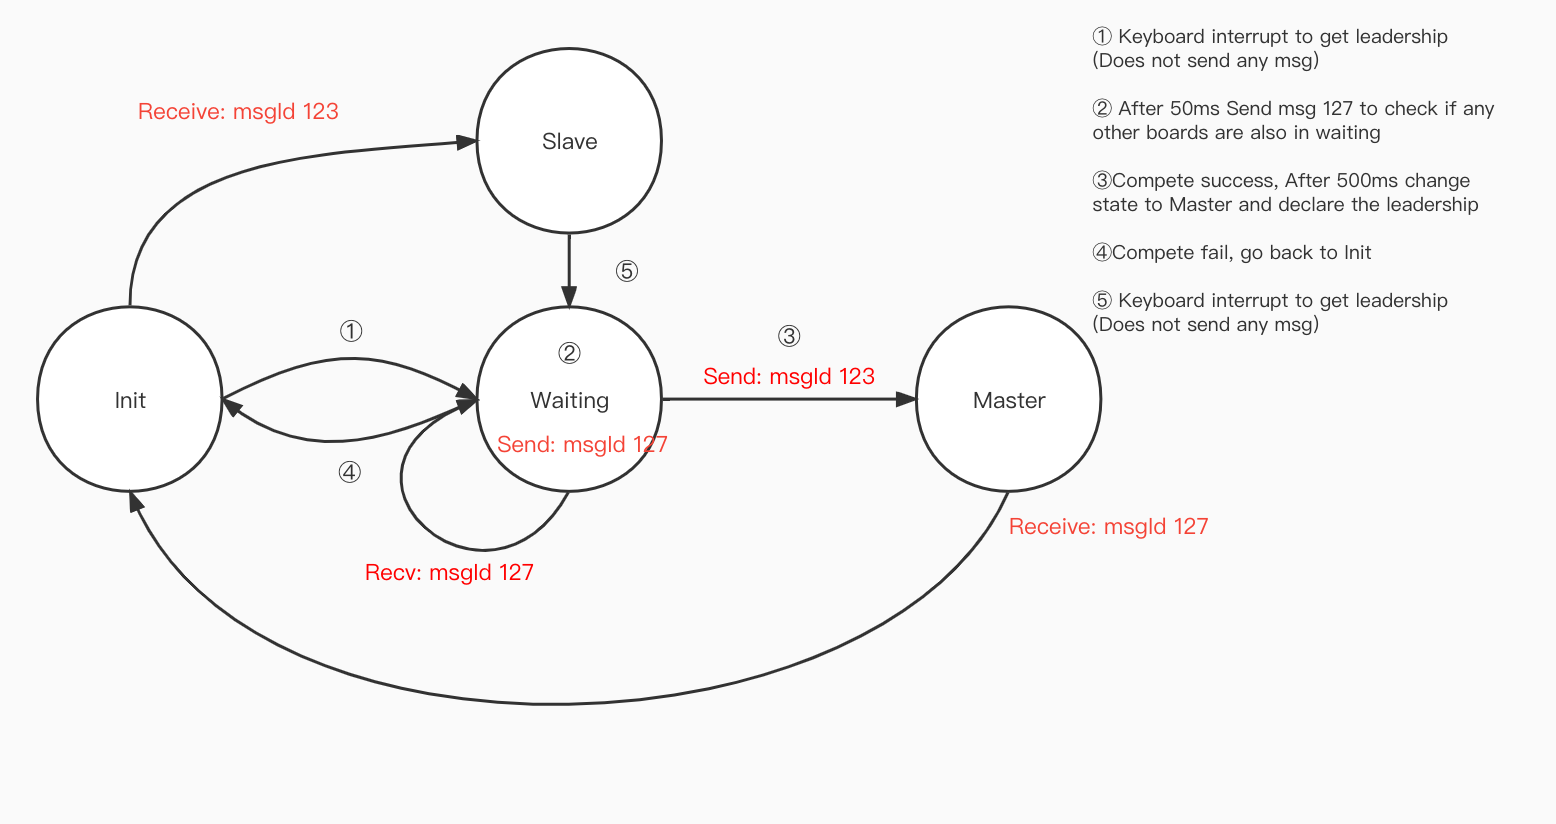
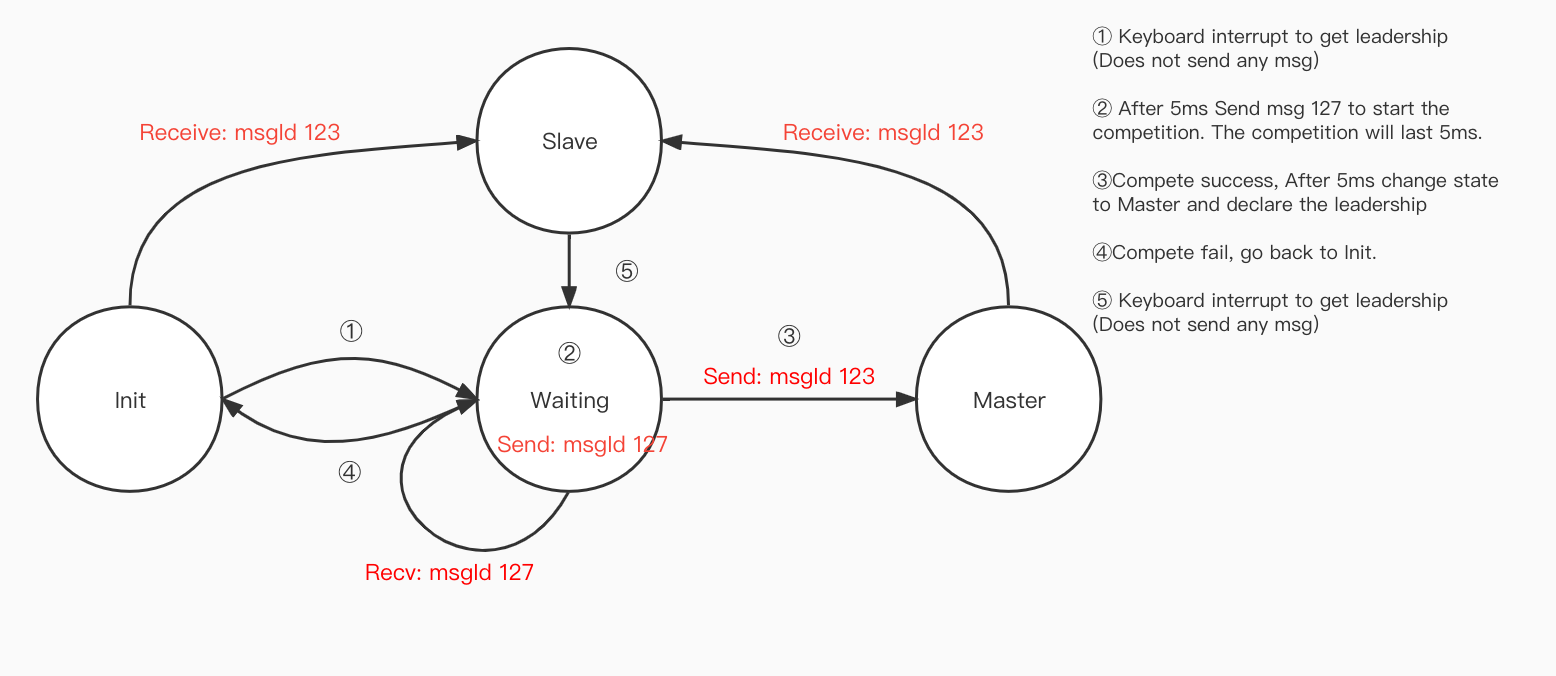
Update
1. Change README.
2. Change to original compete.

diff --git a/RTS-Lab-original/Committee.c b/RTS-Lab-original/Committee.c
@@ -222,7 +222,7 @@ void send_GetLeadership_msg(Committee *self, int arg)
     msg.nodeId = self->myRank;
     msg.msgId = 127;
     CAN_SEND(&can0, &msg);
-    self->mode = WAITING;
+    
 }
 
 // NOT USED ANYMORE
@@ -263,14 +263,15 @@ void change_StateAfterCompete(Committee *self, int arg)
 {
     if (self->isLeader)
     {
-        self->mode = MASTER;
-        self->leaderRank = self->myRank;
-        // ASYNC(&watchdog, monitor, self->myRank);
-        ASYNC(self, send_DeclareLeader_msg, 0); // msgId 123
-        if (self->leaderRank == self->myRank && self->mode == MASTER)
-        {
-            SCI_WRITE(&sci0, "Claimed Leadership!\n");
-        }
+        // self->mode = MASTER;
+        // self->leaderRank = self->myRank;
+        // // ASYNC(&watchdog, monitor, self->myRank);
+        // ASYNC(self, send_DeclareLeader_msg, 0); // msgId 123
+        // if (self->leaderRank == self->myRank && self->mode == MASTER)
+        // {
+        //     SCI_WRITE(&sci0, "Claimed Leadership!\n");
+        // }
+        ASYNC(self, IorS_to_M, 0);
     }
     else
     {

diff --git a/RTS-Lab-original/Watchdog.c b/RTS-Lab-original/Watchdog.c
@@ -169,9 +169,7 @@ void check(Watchdog *self, int unused)
         if(boardNum == 1 && myMode == SLAVE){
             // ASYNC(&committee, D_to_F3, 0);
         }else if(myMode != F_1 && myMode != F_2 && myMode != F_3){
-            snprintf(strbuff, 100, "board mode: %d\n", myMode);
-            SCI_WRITE(&sci0, strbuff);
-            ASYNC(&committee, IorS_to_M, 0);
+            ASYNC(&committee, compete, 0);
         }
         // Is it possible get a FFF here?
     }

diff --git a/RTS-Lab-original/application.c b/RTS-Lab-original/application.c
@@ -790,8 +790,8 @@ void reader(App *self, int c)
 	switch (c)
 	{
 	case 'o':
-		// ASYNC(&committee, compete, 0);
-		ASYNC(&committee, IorS_to_M, 0);
+		ASYNC(&committee, compete, 0);
+		// ASYNC(&committee, IorS_to_M, 0);
 		// ASYNC(self, send_DeclareLeader_msg, 0);
 		break;
 	case 'k':

diff --git a/README.md b/README.md
@@ -5,23 +5,23 @@ This music player is based on the implementation of the EDA223 project, the main
 
 ## The protocol
 
-| msgId | msg.nodeId | msg.buff            | Usage                                | State           | Class   |
-| ----- | ---------- | ------------------- | ------------------------------------ | --------------- | ------- |
-| 1     | myRank     | NaN                 | Increase the volum                   | Master          | Melody  |
-| 2     | myRank     | NaN                 | Decrease the volum                   | Master          | Melody  |
-| 3     | myRank     | NaN                 | Mute the melody                      | Master          | Melody  |
-| 4     | myRank     | NaN                 | Pause the melody                     | Master          | Melody  |
-| 5     | myRank     | New value, size = 1 | Change the positive key              | Master          | Melody  |
-| 6     | myRank     | New value, size = 1 | Change the negative key              | Master          | Melody  |
-| 7     | myRank     | New value, size = 3 | Change the bpm                       | Master          | Melody  |
-| 8     | myRank     | NaN                 | Reset the key and tempo              | Master          | Melody  |
-| 119   | myRank     | Note ID             | Boardcast current note               | Master          | Network |
-| 122   | myRank     | NaN                 | Detect member in the network         | Init            | Network |
-| 123   | myRank     | NaN                 | Declare Leadership                   | Waiting->Master | Network |
-| 124   | myRank     | Rank from msgId 127 | Response to leader claim             | Init            | Network |
-| 125   | myRank     | NaN                 | Reset the bpm and key                | Master          | Network |
-| 126   | myRank     | boardNum            | Send board number in current network | Init            | Network |
-| 127   | myRank     | NaN                 | Claim for leadership                 | Init->Waiting   | Network |
+| msgId   | msg.nodeId | msg.buff                | Usage                                | State           | Class       |
+| ------- | ---------- | ----------------------- | ------------------------------------ | --------------- | ----------- |
+| 1       | myRank     | NaN                     | Increase the volum                   | Master          | Melody      |
+| 2       | myRank     | NaN                     | Decrease the volum                   | Master          | Melody      |
+| 3       | myRank     | NaN                     | Mute the melody                      | Master          | Melody      |
+| 4       | myRank     | NaN                     | Pause the melody                     | Master          | Melody      |
+| 5       | myRank     | New value, size = 1     | Change the positive key              | Master          | Melody      |
+| 6       | myRank     | New value, size = 1     | Change the negative key              | Master          | Melody      |
+| 7       | myRank     | New value, size = 3     | Change the bpm                       | Master          | Melody      |
+| 8       | myRank     | NaN                     | Reset the key and tempo              | Master          | Melody      |
+| 119     | myRank     | Note ID                 | Boardcast current note               | Master          | Network     |
+| 122     | myRank     | NaN                     | Detect member in the network         | Init            | Network     |
+| 123     | myRank     | NaN                     | Declare Leadership                   | Waiting->Master | Network     |
+| ~~124~~ | ~~myRank~~ | ~~Rank from msgId 127~~ | ~~Response to leader claim~~         | ~~Init~~        | ~~Network~~ |
+| 125     | myRank     | NaN                     | Reset the bpm and key                | Master          | Network     |
+| 126     | myRank     | boardNum                | Send board number in current network | Init            | Network     |
+| 127     | myRank     | NaN                     | Claim for leadership                 | Init->Waiting   | Network     |
 
 ## Establish the network
 The network is built based on the following processes.
@@ -55,17 +55,23 @@ In this step we start initializing the state machine.
 
 First all boards should have an initial state of **Init**, which means a new member of the network (or a Master waiting to hand over leadership).
 
-Then use the button 'o' to compete for leadership, which of course needs to be assigned manually here. After we press 'o' the board will enter the **Waiting** state, use AFTER(MSEC(50), checkWaiting) to check if there are other boards in the **Waiting** state. If there are other boards in the **Waiting** state, then a compete is triggered and we specify that the nodeId with the greater wins the race.
-
-Since there are and only two boards that may compete in this system, the current state machine cannot handle competition situations with more than two boards.
-
-If a board in the **Waiting** state fails to compete, then it returns to the **Init** state and conversely broadcasts msgId 123 declaring its leadership (no other competitor can exist) and then go into **Master** state.
+Then the one who wants to be the Master press 'o' enter competition, after total 10ms it will become Master.
 
 All boards in the Init state will enter the **Slave** state after receiving msgId 123.
 
 At this point this network is ready.
 
-Boards in the Slave state can also compete for leadership by pressing 'o'. When the board in **Waiting** state sends msgId 127, the **Master** will enter **Init** state after receiving msgId 127, and will enter **Slave** state after receiving msgId 123.
+Boards in the Slave state can also compete for leadership by pressing 'o'. The **Master** will enter **Slave** state after receiving msgId 123.
+
+### Compete
+
+Then use the button 'o' to compete for leadership, which of course needs to be assigned manually here. After we press 'o' the board will enter the **Waiting** state, use AFTER(MSEC(5), checkWaiting) to check if there are other boards in the **Waiting** state. If there are other boards in the **Waiting** state, then a compete is triggered and we specify that the nodeId with the greater Rank wins the race. The first 5ms here is to waiting another competitor join the race, after 5ms we treat this competitor is not in current race.
+
+![Compete](Graph/compete.jpg)
+
+Since there are and only two boards that may compete in this system, the current state machine cannot handle competition situations with more than two boards.
+
+If a board in the **Waiting** state fails to compete, then it returns to the **Slave** state and conversely broadcasts msgId 123 declaring its leadership (no other competitor can exist) and then go into **Master** state.
 
 ## Melody playing
 
@@ -74,7 +80,7 @@ After finishing the network leadership setup, we are going to start playing musi
 
 There are different judgment conditions for different boardNum.
 
-boardNum == 3: noteId % boardNum == myRank, the current board plays this note.
+boardNum == 3: noteId % 3 == myRank, the current board plays this note.
 
 boardNum == 2: noteId % 2 == 0 Master play, noteId % 2 == 1 Slave play. (Current network can only exist one Master and one Slave)
 
@@ -96,24 +102,30 @@ For the Slave, every msgId 119 received will trigger the CAN message handler and
 
 *Failure Mode F3*: The CAN connection wire is disconnected and resumed when the connection wire is plugged back in. No CAN message can be send.
 
-### The Watchdog
+### The Watchdog (Test passed on 2 boards)
 A watchdog is an object used to monitor the status of boards in a network. The basic operation logic of the watchdog is shown in the figure.
 
-![Watchdog](Graph/watchdog.jpg)
+![Watchdog](Graph/new_watchdog.jpg)
 
-### Monitor
+### Monitor 
 
 Monitor is a function that maintains the networkState array, which stores the current state of all boards in the network: Master/Slave/F_1/F_2/F_3/Deactive, where Deactive is a Watchdog transient that does not exist in the committee. You will also notice that we have added three new states F_1/F_2/F_3 to the committee, which correspond to the three possible failures of the board.
 
 ![NetworkState](Graph/networkState.jpg)
 
-The Monitor first sets all boards to Deactive (i.e. assuming none of them are alive) and sets networkState[myRank] to committee->mode (i.e. our own state). Then send msgId 63, since all boards in the network have the same behavior, we will also receive msgId 63 from other boards (if they are alive), and then we modify the corresponding networkState[msg.nodeId] in the CAN handler of the watchdog.
+~~The Monitor first sets all boards to Deactive (i.e. assuming none of them are alive) and sets networkState[myRank] to committee->mode (i.e. our own state). Then send msgId 63, since all boards in the network have the same behavior, we will also receive msgId 63 from other boards (if they are alive), and then we modify the corresponding networkState[msg.nodeId] in the CAN handler of the watchdog.~~
 
-Finally we use the AFTER function to call the check function after [SNOOP_INTERVAL] to check if there is a Deactive board in the current network and set it to F_3 (F_1/F_2 are both active entries).
+~~Finally we use the AFTER function to call the check function after [SNOOP_INTERVAL] to check if there is a Deactive board in the current network and set it to F_3 (F_1/F_2 are both active entries).~~
 
-![NetworkState change in normal case](Graph/networkState_change_in_normal.jpg)
+The monitor first set **networkState[myRank] = myMode**, then sends the corresponding CAN message according to its status, finally only the Master's Monitor runs with a [SNOOP_INTERVAL] cycle. *For Slave, their monitor will **start** after receiving msgId 64 from the Master*, which means that all Slave no longer start the monitor function autonomously. Once the current state of the board changes from Master to another state, then Monitor's period execution will stop.
 
-As we had wipe all the states which is stored in networkState at the begining of Monitor, we need to track all boards in every watch snoop. As we can know from the assignment, F1 and F2 mode could still handle the CAN message, which means it still send and response watchdog message. Therefore, in different states, watchdog will send different msgId, as shown in the following table.
+**Change Log**: During the test, we found that the original check start monitor may not be synchronized with the watchdog of Master and Slave in the reality. Due to the lack of information about the Master, the Slave starts to compete to become the Master at a certain point in time, resulting in the existence of two Masters in the network.
+
+
+
+![NetworkState change in normal case](Graph/new_networkState_change_in_normal.jpg)
+
+As we had wipe all the states which is stored in networkState at the end of Check, we need to track all boards in every watch snoop. As we can know from the assignment, F1 and F2 mode could still handle the CAN message, which means it still send and response watchdog message. Therefore, in different states, watchdog will send different msgId, as shown in the following table.
 
 | msgId | msg.nodeId | msg.buff | Usage                                       | State     | Class    |
 | ----- | ---------- | -------- | ------------------------------------------- | --------- | -------- |
@@ -133,9 +145,7 @@ F_1/F_2 will also sends msgId 61 and msgId 62 through the monitor, which ensures
 The difference between F_1 and F_2 is only between manual recovery and automatic recovery, the recovery process they perform is exactly the same. Please refer to the New member join section for the specific recovery process.
 
 ### Check
-In the check function, We will first initialize a new boardNum = 0.
-
-Then we iterate through the networkState array, counting the number of DEACTIVE, Master and Slave in the network.
+We start iterate through the networkState array first, counting the number of DEACTIVE, Master and Slave in the network.
 
 The number of DEACTIVE may indicates the CAN cable of current board is pluged out or not. When we detect 2 DEACTIVE, means we don't get response from other boards, the CAN cable may be lost in this case, thus we should enter failure F_3. (Not in loopback mode. The F_3 failure in loopback mode is different from none-loopback mode.)
 
@@ -162,16 +172,16 @@ You are free to choose the implementation here.
 
 **Related CAN messages**
 
-| msgId | msg.nodeId | msg.buff | Usage                | State          | Class    |
-| ----- | ---------- | -------- | -------------------- | -------------- | -------- |
-| 59    | myRank     | boardNum | Failure recovery_ack | Master         | Watchdog |
-| 60    | myRank     | NaN      | Failure recovery     | Failure->Slave | Watchdog |
+| msgId | msg.nodeId | msg.buff | Usage                | State                | Class    |
+| ----- | ---------- | -------- | -------------------- | -------------------- | -------- |
+| 59    | myRank     | boardNum | Failure recovery_ack | Master               | Watchdog |
+| 60    | myRank     | NaN      | Failure recovery     | Failure F1/F2->Slave | Watchdog |
 
 **Recovery from F_1 and F_2**
 
 This part mainly focus on failure recovery. When a board is recovery from F_1/F_2, it should send msgId 60. If current network has a Master, it should send msgId 59 to ack and the msg.buff should contain the boardNum in current network.
 
-*Case 1*
+*Case 1 (with Master)*
 
 | State   | Action                                               | networkState            |
 | ------- | ---------------------------------------------------- | ----------------------- |
@@ -183,18 +193,16 @@ This part mainly focus on failure recovery. When a board is recovery from F_1/F_
 
 If the current board is the first board in the network, then it will not receive an ACK from the Master (msgId 59). We stipulate: after sending msgId 60, use AFTER(MSEC(100)) to call a function that checks for the presence of a Master. If no Master exists, we use the COMPETE function to obtain leadership. 
 
-*Case 2*
+*Case 2  (without Master)*
 
 | State   | Action                                             | networkState                                |
 | ------- | -------------------------------------------------- | ------------------------------------------- |
 | F_1/F_2 | Enter recovery, Send msgId 60/ Recv msgId 61 or 62 | \| F_1/F_2 \| F_1/F_2/F_3 \| F_1/F_2/F_3 \| |
 | Slave   | Check master existence.                            | \| F_1/F_2 \| F_1/F_2/F_3 \| F_1/F_2/F_3 \| |
-| Waiting | Compete for Master.                                | \| F_1/F_2 \| F_1/F_2/F_3 \| F_1/F_2/F_3 \| |
-| Master  | Get leadership.                                    | \| F_1/F_2 \| F_1/F_2/F_3 \| F_1/F_2/F_3 \| |
+| Slave   | Change to Master.                                  | \| M \| F_1/F_2/F_3 \| F_1/F_2/F_3 \|       |
+| Master  | Get leadership.                                    | \| M\| F_1/F_2/F_3 \| F_1/F_2/F_3 \|        |
 | Master  | Next monitor, change netWorkState.                 | \| M \| D \| D \|                           |
 | Master  | Next check, change netWorkState.                   | \| M \| F_1/F_2/F_3 \| F_1/F_2/F_3 \|       |
-
-
 
 *Note*: Start playing music after we have obtained leadership, otherwise an error will occur.
 
@@ -204,7 +212,7 @@ The main evidence for determining to exit F_3 is that the current board is in th
 
 F_3 join to the network have two senarios.
 
-*Case 1*
+*Case 1  (with Master)*
 
 | State | Action                             | networkState        |
 | ----- | ---------------------------------- | ------------------- |
@@ -212,21 +220,19 @@ F_3 join to the network have two senarios.
 | F_3   | Count boardNum = 2                 | \| F_3 \| S \| M \| |
 | Slave | Exit F_3, enter Slave              | \| S \| S \| M \|   |
 
-*Case 2*
+*Case 2  (without Master)*
 
-| State | Action                             | networkState            |
-| ----- | ---------------------------------- | ----------------------- |
-| F_3   | Send msgId 63/ Recv msgId 61 or 62 | \| F_3 \| F_2 \| F_1 \| |
-| F_3   | Set networkState[myRank] = Slave   | \| S \| F_2 \| F_1 \|   |
-| F_3   | Count boardNum = 1                 | \| S \| F_2 \| F_1 \|   |
-| Slave | Exit F_3, enter Slave              | \| S \| F_2 \| F_1 \|   |
+| State  | Action                             | networkState            |
+| ------ | ---------------------------------- | ----------------------- |
+| F_3    | Send msgId 63/ Recv msgId 61 or 62 | \| F_3 \| F_2 \| F_1 \| |
+| F_3    | Set networkState[myRank] = Slave   | \| S \| F_2 \| F_1 \|   |
+| F_3    | Count boardNum = 1                 | \| S \| F_2 \| F_1 \|   |
+| Slave  | Exit F_3, enter Slave              | \| S \| F_2 \| F_1 \|   |
+| Slave  | Check master existence.            | \|S \|F_2 \|F_1 \|      |
+| Slave  | Change to Master.                  | \|M \|F_2 \|F_1 \|      |
+| Master | Get leadership, play music.        | \|M \|F_2 \|F_1 \|      |
 
+**Join from Init**
 
+Since this scenario are not required by the Lab-PM, we do not have handler for it.
 
-## Todo List
-1. ~~Modify debug output information.~~ Done
-2. Discussing the failure of F_3 in the loopback mode.
-3. ~~Implementing Passive Backup for Notes.~~
-4. ~~F_3 exit in |F_3|F_2|F_1| case.~~ Done, need test
-5. If recovery from failure, boardNum == 1, we need to play from the first note.
-6. note send
